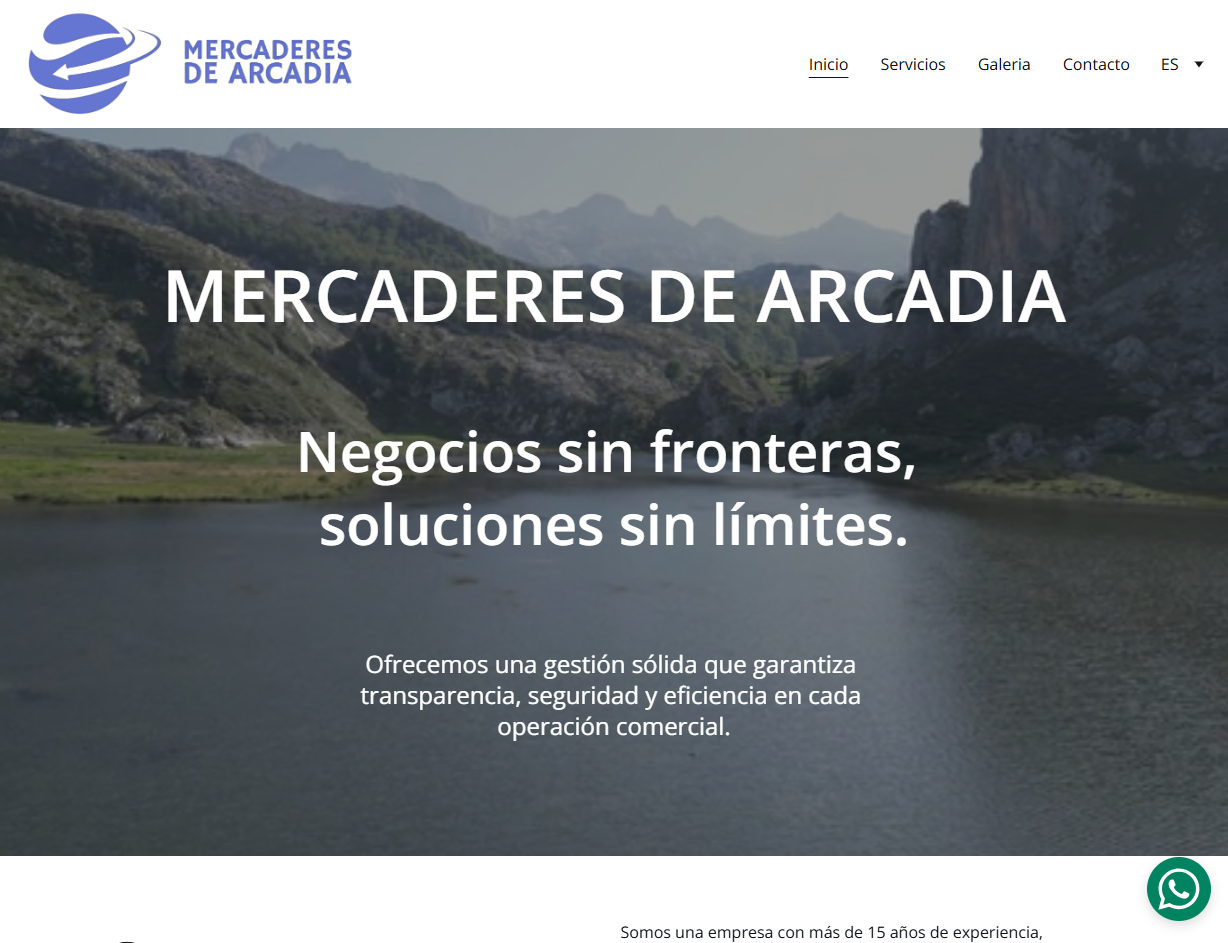
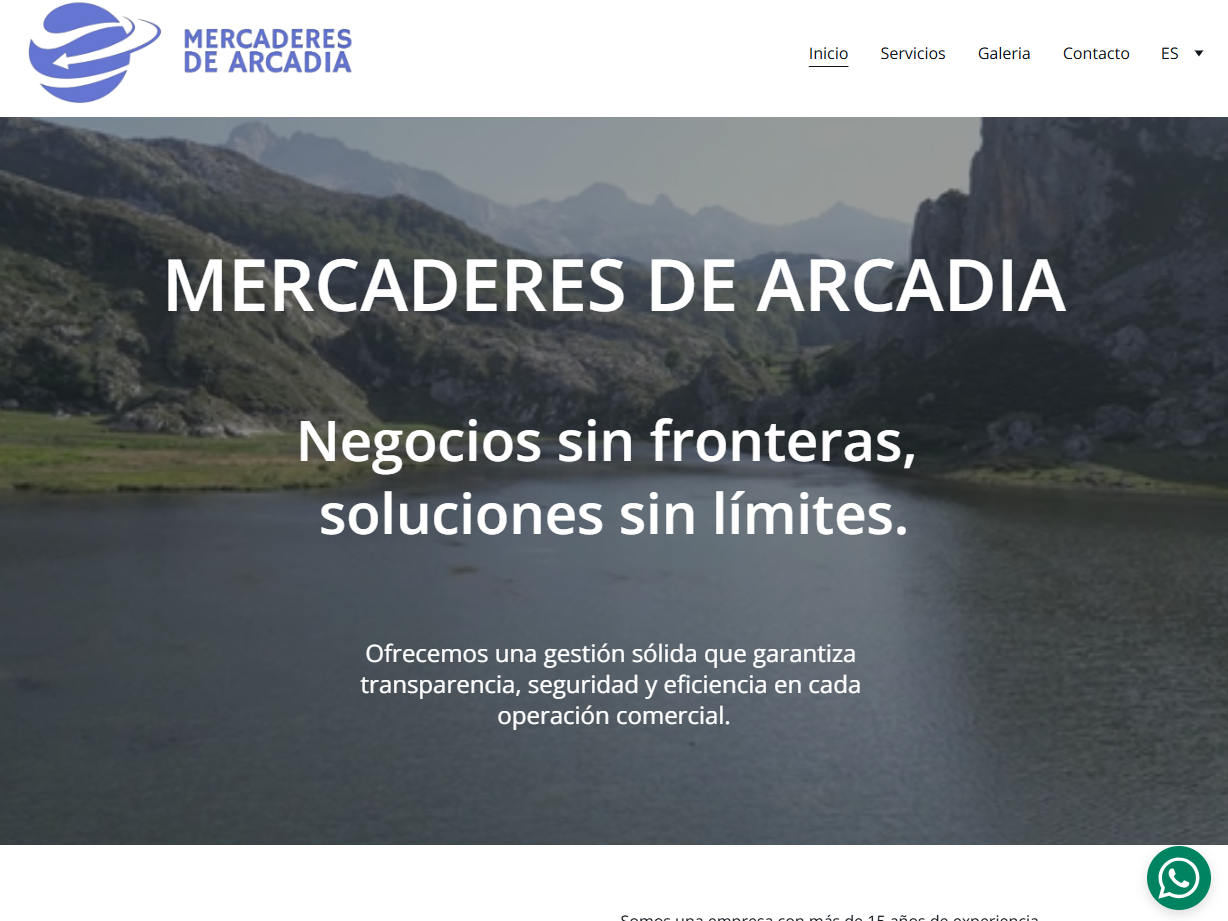
Merge to main

diff --git a/index.html b/index.html
@@ -4,7 +4,7 @@
 <head>
     <meta charset="UTF-8" />
     <meta name="viewport" content="width=device-width, initial-scale=1.0" />
-    <title>Diego Di Stefano | Portfolio</title>
+    <title>Diego Di Stefano Portfolio</title>
     <meta name="description"
         content="Portfolio personal con estilo de anime de un desarrollador junior. Proyectos, contacto y más." />
     <meta name="author" content="Diego Di Stefano" />
@@ -16,7 +16,7 @@
     <header class="site-header">
         <div class="container header-content">
             <a href="#inicio" class="logo">Diego <span>OtakuDev</span></a>
-            <nav class="nav-bar">
+            <nav class="nav-bar" aria-label="Navegación principal">
                 <ul>
                     <li><a href="#inicio">Inicio</a></li>
                     <li><a href="#sobre-mi">Sobre mi</a></li>
@@ -29,7 +29,7 @@
     <main id="inicio">
         <section class="container hero-content">
             <div class="section-text">
-                <h1>Diego Di Stefano | Programador</h1>
+                <h1>Diego Di Stefano<br />Programador</h1>
                 <p class="section-subtitle">
                     Desarrollador junior y fan del anime. Combino
                     <strong>HTML, CSS, Python, Django, C#, .NET, Java, SQL, JavaScript y React.</strong>
@@ -55,7 +55,7 @@
                         </strong>(Prometeo-ThePowerFP) y <strong>Técnico Universitario en Programación</strong>
                         (UTN-Arg).</br>
                         Otaku de corazón.</br>
-                        Fanatico del mundo Tech. Curioso y manitas por naturaleza.</br>
+                        Fanatico del mundo tech. Curioso y manitas por naturaleza.</br>
                         A los 20 descubri mi pasión por el anime. A los 30, mi pasión por el desarrollo. Me pregunto,
                         ¿que descubriré a los 40?
                     </p>
@@ -64,39 +64,39 @@
             <div class="tech-grid">
                 <article class="tech-card">
                     <p class="section-subtitle">
-                            <span>Front-end: </span>HTML, CSS, Tailwind, JavaScript, ReactJS.
-                        </p>
+                        <span>Front-end: </span>HTML, CSS, Tailwind, JavaScript, ReactJS.
+                    </p>
                 </article>
                 <article class="tech-card">
                     <p class="section-subtitle">
-                            <span>Back-end: </span>C#, .NET, Python, Django, Java.
-                        </p>
+                        <span>Back-end: </span>C#, .NET, Python, Django, Java.
+                    </p>
                 </article>
                 <article class="tech-card">
                     <p class="section-subtitle">
-                            <span>Bases de datos:</span> PostgreSQL, SQL Server, SQLAlchemy, Entity Framework.
-                        </p>
+                        <span>Bases de datos:</span> PostgreSQL, SQL Server, SQLAlchemy, Entity Framework.
+                    </p>
                 </article>
                 <article class="tech-card">
                     <p class="section-subtitle">
-                            <span>Cloud & DevOps:</span> Google Cloud SQL & Storage, Docker, despliegue de APIs.
-                        </p>
+                        <span>Cloud & DevOps:</span> Google Cloud SQL & Storage, Docker, despliegue de APIs.
+                    </p>
                 </article>
                 <article class="tech-card">
                     <p class="section-subtitle">
-                            <span>Herramientas:</span> Git, GitHub, Trello, Figma, PhotoShop, CorelDraw.
-                        </p>
+                        <span>Herramientas:</span> Git, GitHub, Trello, Figma, PhotoShop, CorelDraw.
+                    </p>
                 </article>
                 <article class="tech-card">
                     <p class="section-subtitle">
-                            <span>Idiomas:</span> Español (nativo) | Inglés (intermedio)
-                        </p>
+                        <span>Idiomas:</span> Español (nativo) | Inglés (intermedio)
+                    </p>
                 </article>
             </div>
         </section>
 
         <!-- portfolio -->
-        <section id="portfolio" class="portfolio">
+        <section id="portfolio" class="section portfolio">
             <div class="container section-content">
                 <div class="section-foto">
                     <img src="./images/manga-image-portfolio.png"
@@ -113,15 +113,66 @@
             <div class="portfolio-grid">
                 <article class="card">
                     <img src="./images/portfolio-web-dearcadia.png" alt="Página web de comercio internacional." />
+                    <div class="project-body">
+                        <a href="https://dearcadia.com/" class="btn btn-secondary" target="_blank"
+                            rel="noopener noreferrer">De Arcadia</a>
+                        <h3>Mercaderes de Arcadia</h3>
+                        <p class="portfolio-subtitle">
+                            Sitio Web para empresa cliente Comercio Internacional.
+                        </p>
+                        <span class="tag">LowCode</span>
+                        <span class="tag">Hosting</span>
+                        <span class="tag">Dominio</span>
+                        <span class="tag">Email Corp.</span>
+                    </div>
                 </article>
                 <article class="card">
-                    <img src="./images/portfolio-web-dearcadia.png" alt="Página web de comercio internacional." />
+                    <img src="./images/portfolio-web-bootcamp-rock.png" alt="Página web de academia de musica." />
+                    <div class="project-body">
+                        <a href="https://diegodistefano.github.io/Tocando_el_DOM/pages/instruments.html"
+                            class="btn btn-secondary" target="_blank" rel="noopener noreferrer">BootCamp Rock</a>
+                        <h3>BootCamp Rock</h3>
+                        <p class="portfolio-subtitle">
+                            Proyecto de Academia de Musica para BootCamp F5.
+                        </p>
+                        <span class="tag">HTML</span>
+                        <span class="tag">CSS</span>
+                        <span class="tag">JS</span>
+                        <span class="tag">Git</span>
+                        <span class="tag">GitHub</span>
+                        <span class="tag">Colaborativo</span>
+                    </div>
                 </article>
                 <article class="card">
-                    <img src="./images/portfolio-web-dearcadia.png" alt="Página web de comercio internacional." />
+                    <img src="./images/portfolio-web-novelas-app.png" alt="App web de streaming audionovelas." />
+                    <div class="project-body">
+                        <a href="https://github.com/diegodistefano/app_novelas"
+                            class="btn btn-secondary" target="_blank" rel="noopener noreferrer">Novelas App</a>
+                        <h3>App de Audionovelas</h3>
+                        <p class="portfolio-subtitle">
+                            ApiRest de scrapping y streaming de audionovelas (proyecto personal).
+                        </p>
+                        <span class="tag">JS</span>
+                        <span class="tag">ReactJS</span>
+                        <span class="tag">Python</span>
+                        <span class="tag">Django</span>
+                        <span class="tag">Google Cloud</span>
+                    </div>
                 </article>
                 <article class="card">
-                    <img src="./images/portfolio-web-dearcadia.png" alt="Página web de comercio internacional." />
+                    <img src="./images/portfolio-web-dotnet-desktop-app.png" alt="Aplicacion de escritorio dotnet." />
+                    <div class="project-body">
+                        <a href="https://github.com/diegodistefano/Catalogo_en_C-_DotNet"
+                            class="btn btn-secondary" target="_blank" rel="noopener noreferrer">Desktop App</a>
+                        <h3>Catálogo de productos</h3>
+                        <p class="portfolio-subtitle">
+                            Aplicacion de Escritorio, CRUD de productos en BBDD.
+                        </p>
+                        <span class="tag">C#</span>
+                        <span class="tag">.NET</span>
+                        <span class="tag">SQL Server</span>
+                        <span class="tag">Arquitectura en Capas</span>
+                    </div>
                 </article>
             </div>
         </section>
@@ -155,7 +206,7 @@
                             <label for="message">Mensaje</label>
                             <textarea name="message" id="message" rows="4" required></textarea>
                         </div>
-                        <button type="submit" class="btn">Enviar mensaje</button>
+                        <button type="submit" class="btn btn-secondary">Enviar mensaje</button>
                     </form>
                 </div>
             </div>
@@ -165,8 +216,10 @@
         <div class="container footer-content">
             <p>&copy; 2025 Diego OtakuDev. Todos los derechos e izquierdos reservados.</p>
             <div class="social-links">
-                <a href="https://github.com/diegodistefano" aria-label="Perfil de GitHub">GitHub</a>
-                <a href="https://www.linkedin.com/in/diegodistefano/" aria-label="Perfil de LinkedIn">LinkedIn</a>
+                <a href="https://github.com/diegodistefano" aria-label="Perfil de GitHub" target="_blank"
+                    rel="noopener noreferrer">GitHub</a>
+                <a href="https://www.linkedin.com/in/diegodistefano/" aria-label="Perfil de LinkedIn" target="_blank"
+                    rel="noopener noreferrer">LinkedIn</a>
             </div>
         </div>
     </footer>

diff --git a/styles.css b/styles.css
@@ -13,12 +13,13 @@
 }
 
 :root {
-    --color-bg-primary: #050816;
-    --color-bg-secondary: #0b1222;
+    --color-bg-primary: #09041d;
+    --color-bg-secondary: #060c1d;
     --color-bg-blur: #050816d2;
     --color-btn-primary: #ff61d8;
-    --color-btn-secondary: #4dd2ff;
-    --color-text: #eaeaea;
+    --color-btn-secondary: #00ccd7;
+    --color-text-primary: #d6dde6;
+    --color-text-muted: #c5c5c5;
     --font-base: "Poppins", sans-serif;
     --shadow: 0 10px 25px rgba(51, 12, 72, 0.305);
     --border-line: 1px solid rgba(51, 12, 72, 0.305);
@@ -29,11 +30,10 @@ html {
 }
 
 body {
-    background: radial-gradient(var(--color-bg-primary),
+    background: linear-gradient(135deg, var(--color-bg-primary),
     var(--color-bg-secondary));
     font-family: var(--font-base);
-    color: var(--color-text);
-    letter-spacing:  0.04em;
+    color: var(--color-text-primary);
 }
 
 h1 {
@@ -46,26 +46,20 @@ h2 {
     margin-bottom: 1rem;
 }
 
+h3 {
+    font-size: 0.9rem;
+}
+
 p {
     max-width: 50rem;
     font-size: 1.2rem;
+    color: var(--color-text-muted);
 }
 
 img {
     max-width: 100%;
     display: block;
 }
-
-a {
-    color: var(--color-text);
-    font-size: 1.2rem;
-    transition: color 0.5s;
-}
-
-a:hover {
-    color: var(--color-btn-secondary);
-}
-
 
 /* =========================
     base
@@ -86,7 +80,7 @@ a:hover {
 }
 
 .section {
-    padding: 2rem 0;
+    margin: 2rem 0;
 }
 
 /* =========================
@@ -113,12 +107,11 @@ a:hover {
 .logo {
     font-size: 1.8rem;
     font-weight: 700;
-    color: var(--color-text);
+    color: var(--color-text-primary);
 }
 
 .logo span {
     color: var(--color-btn-primary);
-    letter-spacing:  0.05em;
 }
 
 .nav-bar ul {
@@ -175,14 +168,26 @@ main
     botones
     ========================= */
 
+a {
+    display: inline-block; 
+    color: var(--color-text-primary);
+    font-size: 1.2rem;
+    transition: color 0.5s, transform 0.5s;
+}
+
+a:hover {
+    color: var(--color-btn-secondary);
+    transform: translateY(-2px);
+}
 
 .btn {
     display: inline-block;
     padding: 1rem 2rem;
     border-radius: 99px;
-    background: linear-gradient(45deg, var(--color-btn-primary), var(--color-btn-secondary));
+    background: linear-gradient(135deg, var(--color-btn-primary), var(--color-btn-secondary));
     color: var(--color-bg-primary);
     font-weight: 600;
+    font-size: 1rem;
     border: none;
     cursor: pointer;
     box-shadow: var(--shadow-soft);
@@ -191,12 +196,20 @@ main
 
 .btn-primary {
     margin-top: 2rem;
+    font-size: 1.2rem;
+}
+
+.btn-secondary {
+    margin: 1rem 0;
+    align-items: center;
 }
 
 .btn:hover {
-    transform: translateY(-2px);
+    color: var(--color-text-primary);
     box-shadow: var(--shadow);
+    transform: translateY(-2px);
 }
+
 
 /* =========================
     sobre-mi
@@ -207,6 +220,7 @@ main
     grid-template-rows: repeat(3, auto);
     gap: 0.5rem;
     margin: 2rem;
+    margin-top: 3rem;
     justify-content: center;
 }
 
@@ -245,6 +259,7 @@ main
     padding: 1rem;
     box-shadow: var(--shadow);
     max-width: 30rem;
+    text-align: center;
 }
 
 .card img {
@@ -253,6 +268,21 @@ main
     border-radius: 0.5rem;
 }
 
+.tag {
+    display: inline-block;
+    margin-right: 0.35rem;
+    margin-bottom: 0.35rem;
+    padding: 0.15rem 0.6rem;
+    border-radius: 99px;
+    font-size: 0.8rem;
+    background: var(--color-bg-secondary);
+    color: var(--color-secondary);
+}
+
+.portfolio-subtitle {
+    font-size: 0.8rem;
+    margin: 0.5rem 0;
+}
 
 
 /* =========================
@@ -307,12 +337,12 @@ textarea:focus {
     flex-wrap: wrap;
     align-items: center;
     justify-content: space-between;
-    color: var(--color-text);
     font-size: 1rem;
 }
 
 .footer-content a {
-   font-size: 1rem; 
+    font-size: 1rem; 
+    color: var(--color-text-muted);
 }
 
 .social-links {
@@ -344,6 +374,7 @@ textarea:focus {
         flex: 0 0 auto;
         width: 8rem;
         height: 8rem;
+        margin: 0.5rem 2rem;
         padding: 0.5rem;
     }
 
